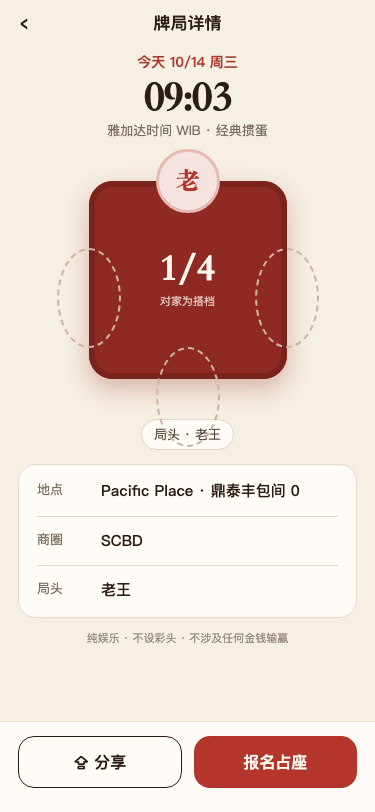
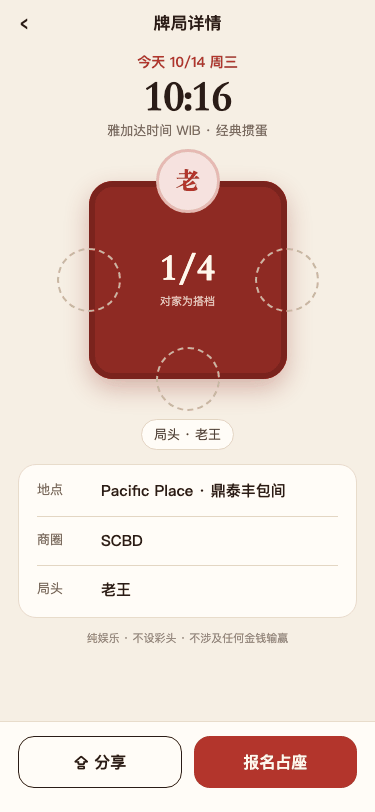
impl: #55 空座位的椭圆、页面空状态改名 .empty-state
复审说得对，上一版没真正修好 #55：`.disc.empty` 只是把外观还原了，但页面空状态那条
`.empty { padding: 48px 24px }` 还落在同一个类名上，空座位仍被撑成 64×100 的椭圆
（截图里能看出来是竖着的蛋形）。

按 coord 倾向的方案做：
- 页面空状态改名 `.empty-state`（App / Home / Detail 里的四处），从根上消掉这个撞名；
- `.disc.empty` 仍然显式写 `padding: 0` —— 双保险，以后谁再加一个同名的类也不会把座位撑变形；
- `styles.test.ts` 补了四条守卫：`.disc.empty` 必须重置 padding、页面空状态必须叫
  `.empty-state` 且不带边框背景、**任何规则都不许再用裸 `.empty` 当选择器**、
  页面里不许残留 `class="empty"`（改名的半成品比不改更糟）。

量测：`document.querySelector('.disc.empty').getBoundingClientRect()` 现在是 64×64，
`docs/verify/53/` 里的详情页和空列表截图（两个视口）都换成了修好之后的。
前端 89 项全绿。

diff --git a/web/src/styles.test.ts b/web/src/styles.test.ts
@@ -76,16 +76,56 @@ describe("styles.css 的完整性", () => {
     expect(broken).toEqual([]);
   });
 
-  // 这两条是 #56 的直接症状：空座位的虚线框跑到了所有空状态文字上。
+  // 这几条是 #55 / #56 的直接症状：空座位的样式跑到了页面空状态文字上，反过来
+  // 页面空状态的内边距又把空座位撑成了椭圆。
   it("空座位的虚线框只属于 .disc.empty", () => {
     const dashed = rules.filter((r) => /2\.5px dashed var\(--khaki\)/.test(r.body));
     expect(dashed.map((r) => r.selector)).toEqual([".disc.empty"]);
   });
 
-  it("空状态文字（.empty）不带边框、不带背景", () => {
-    const empty = rules.find((r) => r.selector === ".empty");
+  it("空座位是 64×64 的圆：.disc.empty 显式重置 padding（#55）", () => {
+    const disc = rules.find((r) => r.selector === ".disc.empty");
+    expect(disc).toBeDefined();
+    expect(disc!.body).toMatch(/padding:\s*0/);
+  });
+
+  it("页面空状态叫 .empty-state，不带边框、不带背景", () => {
+    const empty = rules.find((r) => r.selector === ".empty-state");
     expect(empty).toBeDefined();
     expect(empty!.body).not.toMatch(/border/);
     expect(empty!.body).not.toMatch(/background/);
+  });
+
+  it("没有任何样式规则再用裸 .empty 当选择器（只允许 .disc.empty）", () => {
+    // 裸 `.empty` 是这次撞名的根源：谁再写一条，就又和空座位绑在一起了。
+    const bare = rules.filter((r) => /(^|[\s,>+~])\.empty($|[\s,:{])/.test(r.selector));
+    expect(bare.map((r) => r.selector)).toEqual([]);
+  });
+
+  it("页面里用的是 .empty-state，没有残留旧类名", () => {
+    // 改名的半成品比不改更糟：样式在 .empty-state 上，页面还写着 .empty。
+    const files = [
+      "src/App.tsx",
+      "src/pages/Home.tsx",
+      "src/pages/Detail.tsx",
+      "src/pages/CreateGame.tsx",
+      "src/pages/Privacy.tsx",
+      "src/pages/Me.tsx",
+      "src/pages/Devices.tsx",
+    ];
+    const leftover: string[] = [];
+    let usages = 0;
+    for (const file of files) {
+      let text: string;
+      try {
+        text = readFileSync(resolve(process.cwd(), file), "utf8");
+      } catch {
+        continue;
+      }
+      if (/class="empty"/.test(text)) leftover.push(file);
+      usages += (text.match(/class="empty-state"/g) ?? []).length;
+    }
+    expect(leftover).toEqual([]);
+    expect(usages).toBeGreaterThan(0);
   });
 });

diff --git a/web/src/styles.css b/web/src/styles.css
@@ -335,6 +335,9 @@ button:disabled {
 .disc.empty {
   background: transparent;
   border: 2.5px dashed var(--khaki);
+  /* 座位是 64×64 的圆。显式写 0：曾经因为有个同名的页面空状态带 padding，
+     空座位被撑成了 64×100 的椭圆（#55）。 */
+  padding: 0;
 }
 
 .disc .crown {
@@ -843,7 +846,9 @@ button:disabled {
   font-size: var(--fs-13);
 }
 
-.empty {
+/* 页面级的空状态文字。刻意不叫 `.empty`：座位那边已经有一个 `.disc.empty`，
+   同名会让「页面的空状态」和「空座位」互相串样式（#55）。 */
+.empty-state {
   text-align: center;
   color: var(--ink-3);
   font-size: var(--fs-body);

diff --git a/web/src/pages/Home.tsx b/web/src/pages/Home.tsx
@@ -121,9 +121,9 @@ export function Home({ me, onOpen, onCreate, toast }: Props) {
         </div>
 
         {error && <p class="error">{error}</p>}
-        {games === null && <p class="empty">正在找局…</p>}
+        {games === null && <p class="empty-state">正在找局…</p>}
         {games !== null && games.length === 0 && !error && (
-          <p class="empty">
+          <p class="empty-state">
             这几天还没有局。
             <br />
             <button class="link" style={{ marginTop: 12 }} onClick={onCreate}>

diff --git a/web/src/pages/Detail.tsx b/web/src/pages/Detail.tsx
@@ -211,7 +211,7 @@ export function Detail({ code, me, requireIdentity, toast, onBack }: Props) {
     return (
       <div class="body">
         <Nav title="牌局详情" onBack={onBack} />
-        {error ? <p class="error">{error}</p> : <p class="empty">正在打开…</p>}
+        {error ? <p class="error">{error}</p> : <p class="empty-state">正在打开…</p>}
       </div>
     );
   }

diff --git a/web/src/App.tsx b/web/src/App.tsx
@@ -155,7 +155,7 @@ export function App() {
       )}
 
       {!ready ? (
-        <p class="empty">正在打开…</p>
+        <p class="empty-state">正在打开…</p>
       ) : route.name === "detail" ? (
         <Detail
           code={route.code}

diff --git a/docs/verify/53/README.md b/docs/verify/53/README.md
@@ -7,7 +7,7 @@
 |---|---|
 | `375x812-empty.png` | 首页空列表：底部 Tab 栏贴住屏幕底，空状态文字没有虚线框（#56） |
 | `375x812-long-bottom.png` | 长列表滚到底：最后一张卡片完整可见，没有被 Tab 栏压住 |
-| `375x812-detail.png` | 详情页：只有底部操作栏、没有 Tab 栏（设计稿 B1），三个空座位是虚线圆圈（#55） |
+| `375x812-detail.png` | 详情页：只有底部操作栏、没有 Tab 栏（设计稿 B1），三个空座位是虚线**圆**（64×64，#55） |
 | `375x812-share.png` | 分享面板：四个出口，WhatsApp 用品牌绿，面板自己滚不会被切掉 |
 | `375x667-*.png` | 同一组，用更矮的屏（iPhone SE）验证 |
 
@@ -17,9 +17,13 @@
 |---|---|---|---|---|
 | 375×812 | 空列表 | 812 | 768–812 | — |
 | 375×812 | 长列表（底部） | 1338 | 768–812 | 底边 720 |
-| 375×812 | 详情页 | 812 | 753–812（操作栏） | 646 |
+| 375×812 | 详情页 | 812 | 753–812（操作栏） | 646（空座位 64×64） |
 | 375×667 | 空列表 | 667 | 591–667 | — |
 | 375×667 | 长列表（底部） | 1338 | 591–667 | 底边 575 |
 | 375×667 | 详情页 | 752 | 576–667（操作栏） | 646 |
 
 底栏的 `bottom` 始终等于视口高度，最后一张卡片始终在底栏上沿之上——这两条就是 #53 的判据。
+
+空座位的量测：`document.querySelector('.disc.empty').getBoundingClientRect()` 是 **64×64**。
+#55 修之前它是 64×100——页面空状态那条 `.empty { padding: 48px 24px }` 落在了同一个类名上。
+现在页面空状态改叫 `.empty-state`，`.disc.empty` 也显式写了 `padding: 0`。
